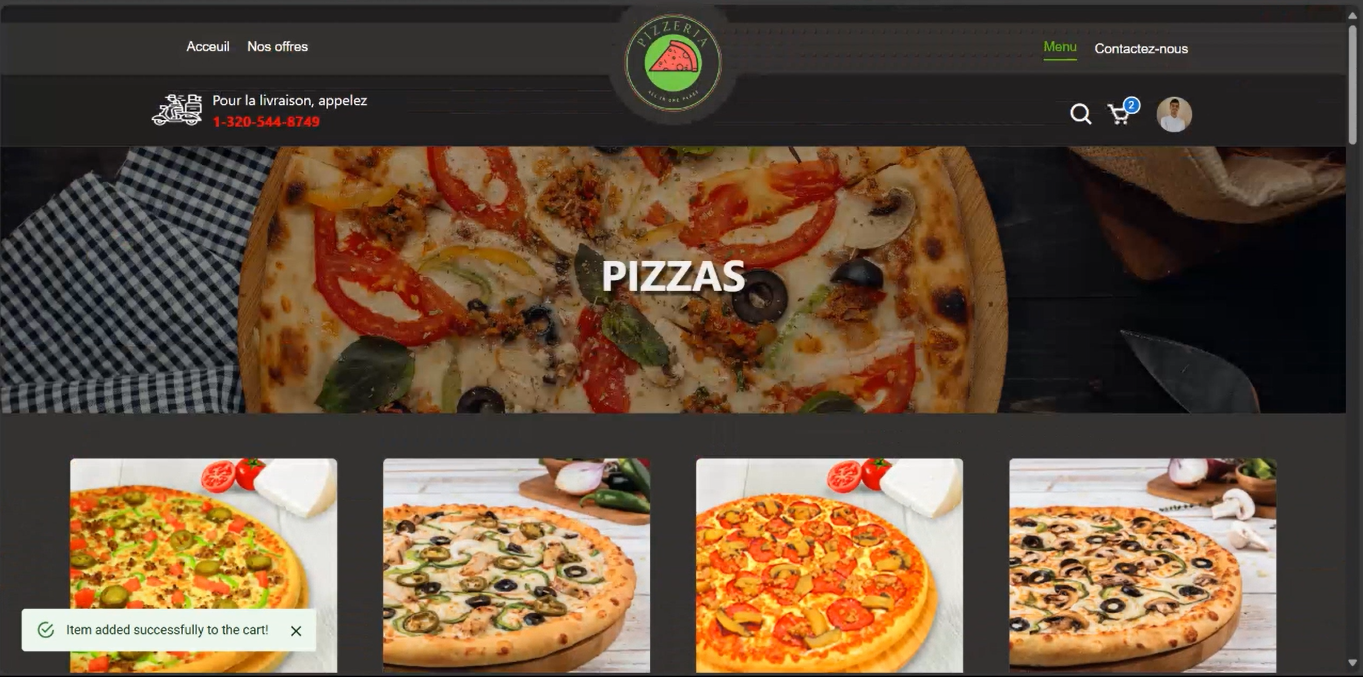
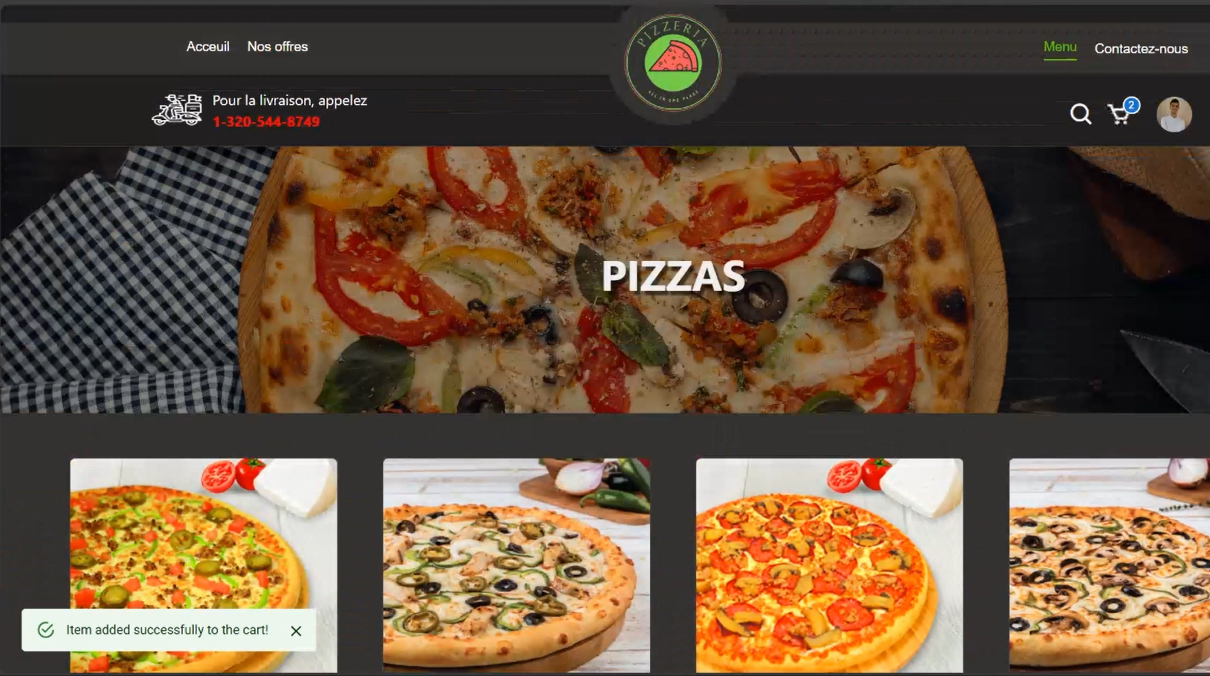
design: update project image with new edits

diff --git a/src/components/ui/SectionLabel.tsx b/src/components/ui/SectionLabel.tsx
@@ -1,5 +1,5 @@
 interface SectionLabelProps {
-  number: string
+  number?: string
   title: string
   subtitle?: string
   align?: 'left' | 'center'
@@ -25,16 +25,18 @@ export function SectionLabel({ number, title, subtitle, align = 'center' }: Sect
           color: 'var(--accent-cyan)',
         }}
       >
-        <span style={{ opacity: 0.5 }}>{number}</span>
-        <span
-          style={{
-            width: 24,
-            height: 1,
-            background: 'var(--accent-cyan)',
-            opacity: 0.6,
-            display: 'inline-block',
-          }}
-        />
+        {number && <span style={{ opacity: 0.5 }}>{number}</span>}
+        {number && (
+          <span
+            style={{
+              width: 24,
+              height: 1,
+              background: 'var(--accent-cyan)',
+              opacity: 0.6,
+              display: 'inline-block',
+            }}
+          />
+        )}
         <span>{title}</span>
       </div>
 

diff --git a/src/sections/Contact.tsx b/src/sections/Contact.tsx
@@ -75,7 +75,7 @@ export function Contact() {
       />
 
       <div className="container-custom" style={{ maxWidth: 1000 }}>
-        <SectionLabel number="05" title={t.contact.title} subtitle={t.contact.subtitle} />
+        <SectionLabel number="04" title={t.contact.title} subtitle={t.contact.subtitle} />
 
         <div
           style={{

diff --git a/src/sections/Philosophy.tsx b/src/sections/Philosophy.tsx
@@ -10,7 +10,7 @@ export function Philosophy() {
   return (
     <section id="philosophy" className="section-padding">
       <div className="container-custom">
-        <SectionLabel number="04" title={t.philosophy.title} subtitle={t.philosophy.subtitle} />
+        <SectionLabel title={t.philosophy.title} subtitle={t.philosophy.subtitle} />
 
         <div style={{ display: 'grid', gridTemplateColumns: 'repeat(auto-fit, minmax(320px, 1fr))', gap: '2rem' }}>
           {principles.map((principle, index) => {